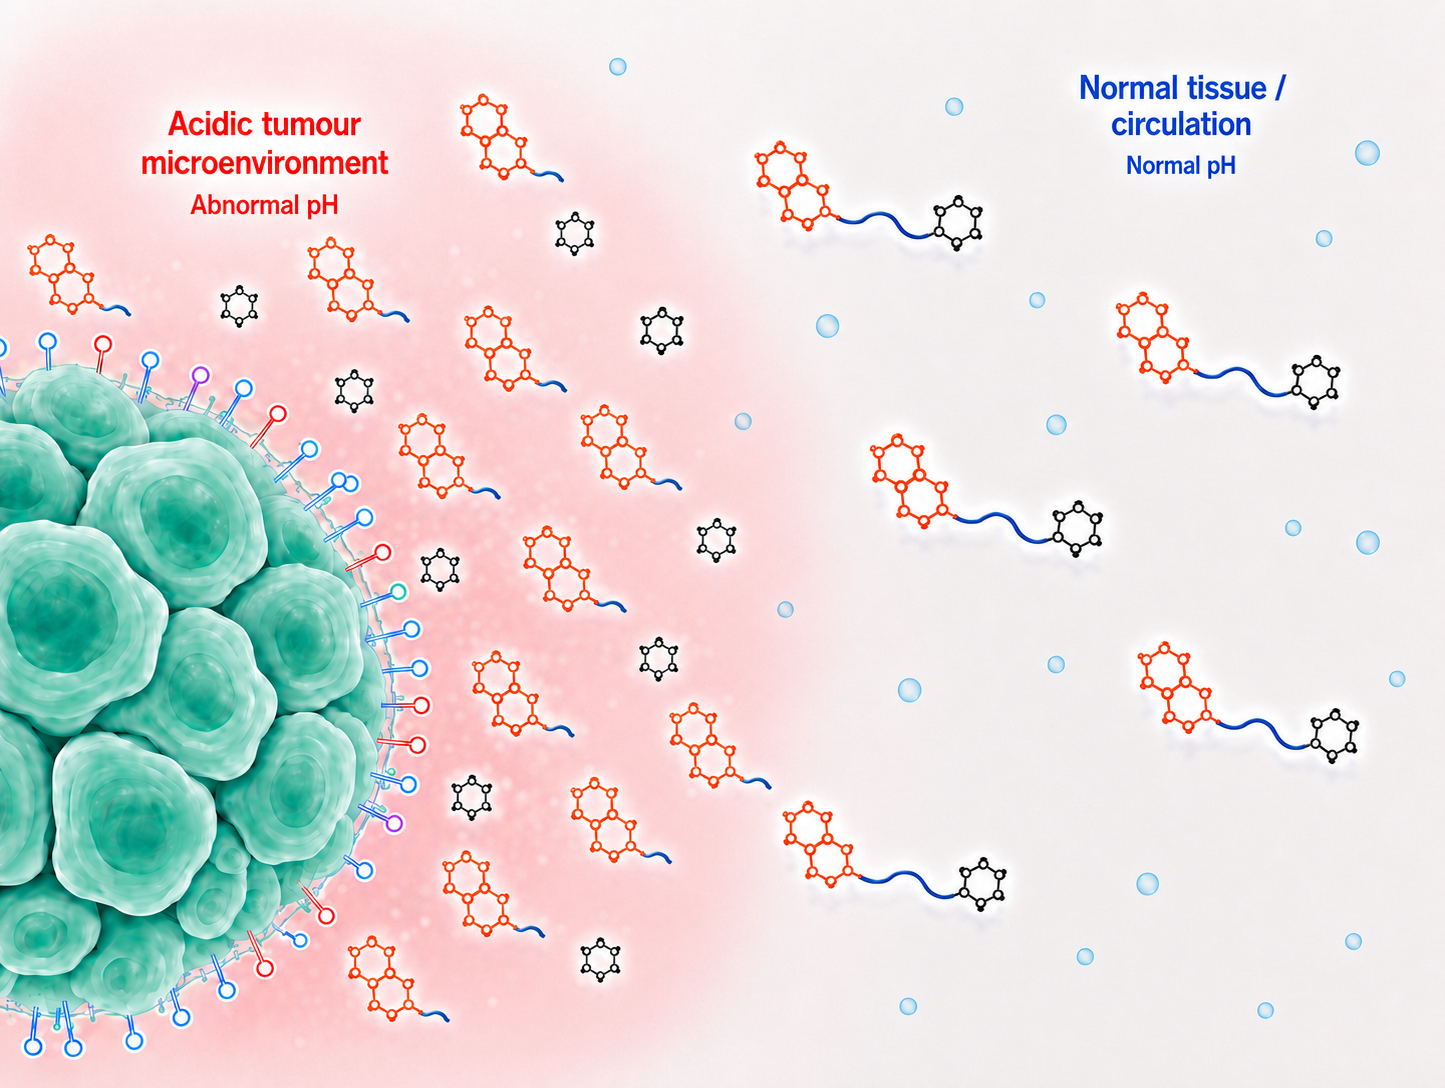
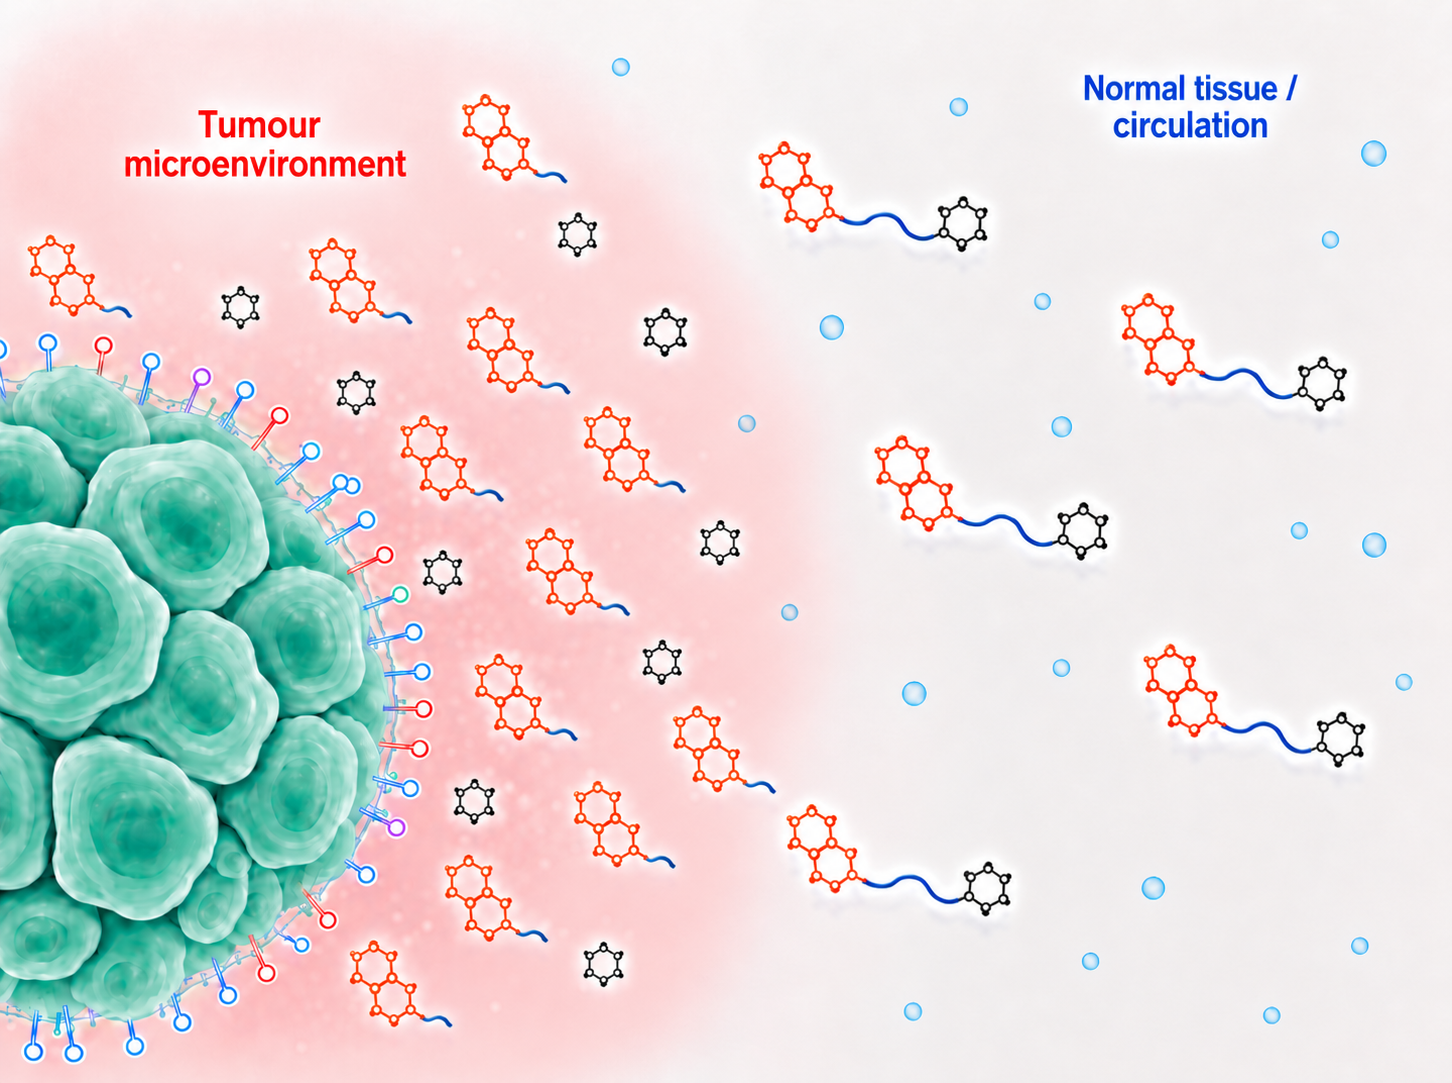
Update mechanism text, hero spacing, copyright year, and diagram alt text

diff --git a/index.html b/index.html
@@ -144,7 +144,7 @@
 
     /* ── HERO ── */
     #home {
-      min-height: 180vh;
+      min-height: 210vh;
       display: flex;
       flex-direction: column;
       justify-content: flex-start;
@@ -177,10 +177,10 @@
       max-width: none;
       width: 100%;
       padding-top: 105vh;
-      padding-bottom: 5rem;
+      padding-bottom: 12rem;
       display: flex;
       flex-direction: column;
-      height: 180vh;
+      height: 210vh;
       box-sizing: border-box;
     }
     .hero-spacer { flex: 1; }
@@ -934,9 +934,9 @@
 </section>
 
 <!-- ═══ VIDEO ═══ -->
-<section id="video" style="padding: 5rem 2.5rem; background: var(--charcoal2);">
+<section id="video" style="padding: 9rem 2.5rem 5rem; background: var(--charcoal2);">
   <div class="section-inner">
-    <div class="section-label reveal" style="color:var(--teal-light);">The team</div>
+    <div class="section-label reveal" style="color:var(--teal-light);">Who we are</div>
     <h2 class="section-title reveal" style="color:var(--white);">How we are developing cutting-edge organic chemistry</h2>
     <div class="reveal" style="margin-top:2.5rem; border-radius:12px; overflow:hidden; box-shadow: 0 8px 40px rgba(0,0,0,.4); position:relative; padding-bottom:56.25%; height:0;">
       <iframe
@@ -973,7 +973,7 @@
       <div class="approach-card reveal reveal-delay-3">
         <div class="approach-num">03</div>
         <h3>Solved with a synthetic PDC</h3>
-        <p>NPMR-047 binds externalised PS and accumulates at the tumour. The acidic tumour microenvironment then cleaves the linker, releasing SN-38 on site. Both conditions must be met for payload release.</p>
+        <p>NPMR-047 binds externalised PS and accumulates at the tumour. The tumour microenvironment contributes to cleaving the linker, releasing SN-38 on site. Both conditions must be met for payload release.</p>
       </div>
     </div>
 
@@ -1162,10 +1162,10 @@
         <div class="moa-text">
           <div class="moa-num">02</div>
           <h3 class="moa-title">NPMR-047 Structure</h3>
-          <p class="moa-body">NPMR-047 is a peptide drug conjugate with three components: a PS-selective binder (orange) that drives tumour accumulation, a proprietary tumour-microenvironment-cleavable linker (blue) that releases the payload under acidic tumour conditions, and an SN-38 anti-cancer payload (green).</p>
+          <p class="moa-body">NPMR-047 is a peptide drug conjugate with three components: a PS-selective binder (orange) that drives tumour accumulation, a proprietary tumour-microenvironment-cleavable linker (blue) that releases the SN-38 anti-cancer payload (black).</p>
         </div>
         <div class="moa-art">
-          <img src="Pdc linker cleavage notext transparent.png" alt="NPMR-047 molecule showing orange PS-selective binder, blue tumour-microenvironment-cleavable linker, and green SN-38 payload" style="width:100%;height:auto;display:block;">
+          <img src="Pdc linker cleavage notext transparent.png" alt="NPMR-047 molecule showing orange PS-selective binder, blue tumour-microenvironment-cleavable linker, and black SN-38 payload" style="width:100%;height:auto;display:block;">
         </div>
       </div>
 
@@ -1174,7 +1174,7 @@
         <div class="moa-text">
           <div class="moa-num">03</div>
           <h3 class="moa-title">Tumour Accumulation &amp; Payload Release</h3>
-          <p class="moa-body">NPMR-047 binds externalised PS on the cancer cell surface and accumulates at the tumour. The acidic pH of the tumour microenvironment then reduces the stability of the linker bond, releasing the SN-38 payload on site.</p>
+          <p class="moa-body">NPMR-047 binds externalised PS on the cancer cell surface and accumulates at the tumour. The timing and the tumour microenvironment then reduce the stability of the linker bond, releasing the SN-38 payload on site.</p>
         </div>
         <div class="moa-art">
           <img src="03. tumour binding.png" alt="NPMR-047 binding to externalised phosphatidylserine on the cancer cell membrane and accumulating at the tumour site" style="width:75%;height:auto;display:block;margin:0 auto;">
@@ -1198,10 +1198,10 @@
         <div class="moa-text">
           <div class="moa-num">05</div>
           <h3 class="moa-title">Dual-Gated Selectivity</h3>
-          <p class="moa-body">Selectivity depends on two sequential conditions: first, PS must be externalised for the molecule to bind and accumulate; second, the local pH must be sufficiently acidic to cleave the linker and release SN-38. In normal tissues where PS is not externalised and pH is physiological, the molecule is excreted intact before the payload is deployed.</p>
+          <p class="moa-body">Selectivity depends on two conditions being met in sequence. First, NPMR-047 must localise at a site where phosphatidylserine is externalised. Where PS is absent, the molecule clears rapidly from circulation before any payload release can occur. Second, even where the molecule accumulates at off-target sites such as liver or kidney where some PS exposure may occur, the tumour microenvironment is required to trigger linker cleavage. Normal tissue does not provide the same microenvironment as the tumour, so the linker remains stable and the molecule is excreted intact.</p>
         </div>
         <div class="moa-art">
-          <img src="05. toxicity controls.png" alt="Diagram showing NPMR-047 intact and excreted in normal tissue where PS is not externalised and pH is physiological, versus payload released in tumour tissue where both conditions are met" style="width:100%;height:auto;display:block;">
+          <img src="05. toxicity controls.png" alt="Diagram comparing tumour microenvironment where NPMR-047 accumulates and releases payload versus normal tissue and circulation where the molecule is excreted intact" style="width:100%;height:auto;display:block;">
         </div>
       </div>
 
@@ -1274,7 +1274,7 @@
       All data and statements relate to preclinical studies only; clinical safety and efficacy have
       not been established. Forward-looking statements involve risk and uncertainty and should not
       be relied upon as guarantees of future performance.
-      &copy; 2025 New Path Molecular. All rights reserved.
+      &copy; 2026 New Path Molecular. All rights reserved.
     </div>
   </div>
 </footer>
